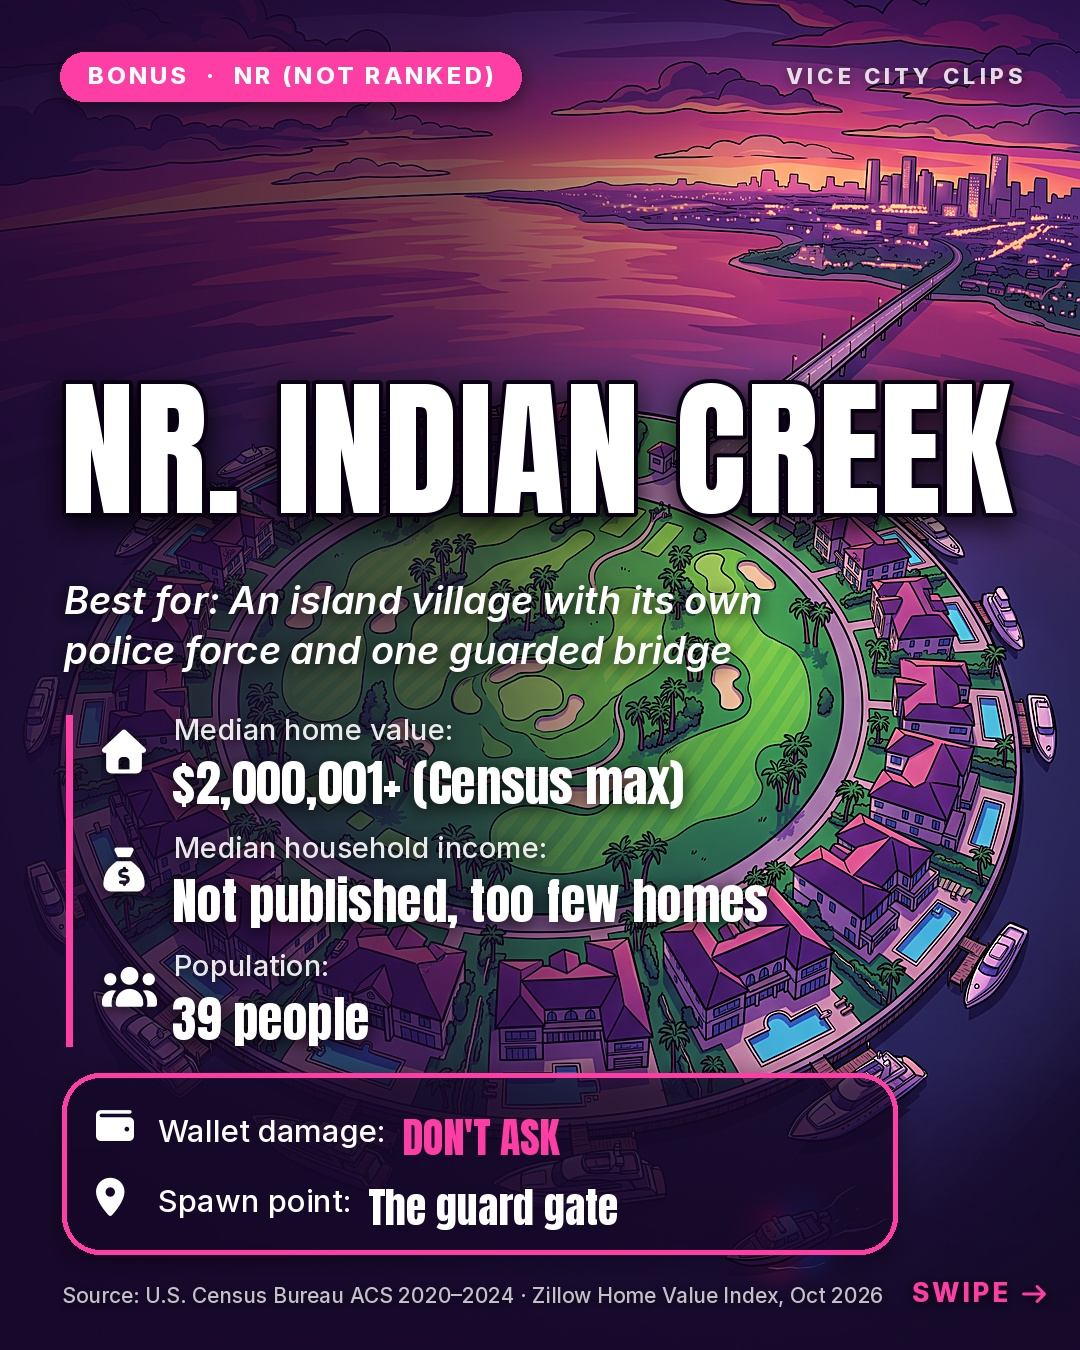
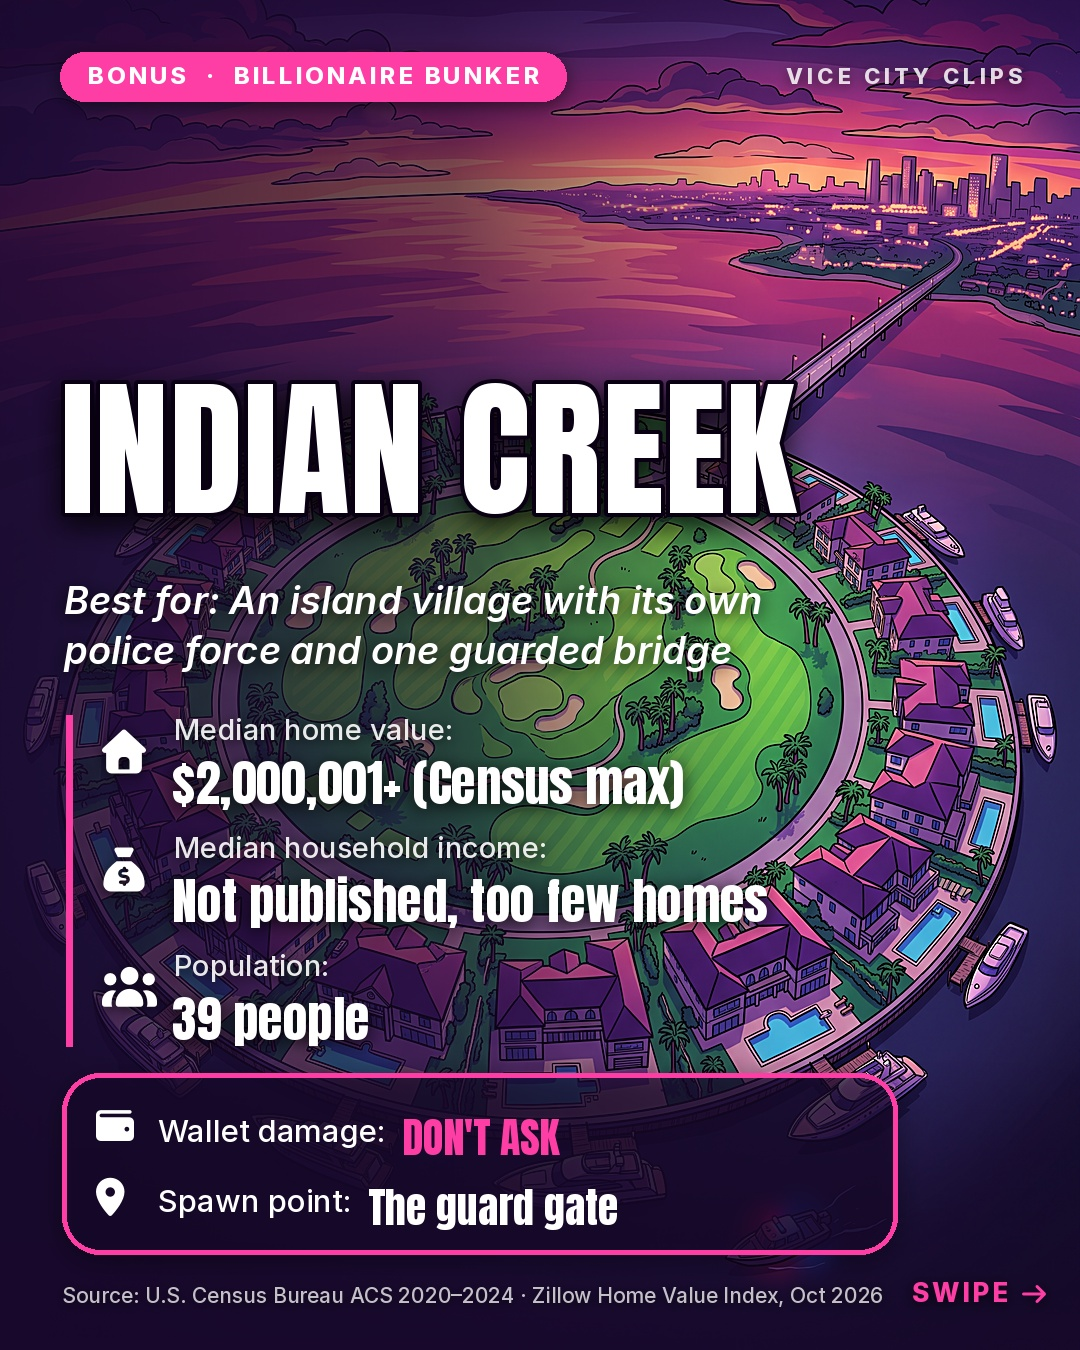
Vice City carousel: drop NR label from Indian Creek slide
Claude-Session: https://claude.ai/code/session_0116s2m4tEpwiuow6FgpDtre

Changed region(s): [[0.0611, 0.28, 0.9472, 0.4044], [0.2139, 0.0311, 0.5194, 0.0933]]

diff --git a/examples/vice-city-carousel/render3.py b/examples/vice-city-carousel/render3.py
@@ -29,7 +29,7 @@ if __name__ == "__main__":
                 ("house", "Typical home value:", "$7,062,683"),
                 ("pct", "Poverty rate:", "3.8%")],
                "OFF THE CHARTS", "Private ferry dock", "out/07_fisher_island.jpg")
-    info_slide("work/8_indian_creek.png", y0.get("8", 48), "BONUS  ·  NR (NOT RANKED)", "NR. INDIAN CREEK",
+    info_slide("work/8_indian_creek.png", y0.get("8", 48), "BONUS  ·  BILLIONAIRE BUNKER", "INDIAN CREEK",
                "An island village with its own police force and one guarded bridge",
                [("house", "Median home value:", "$2,000,001+ (Census max)"),
                 ("money", "Median household income:", "Not published, too few homes"),
